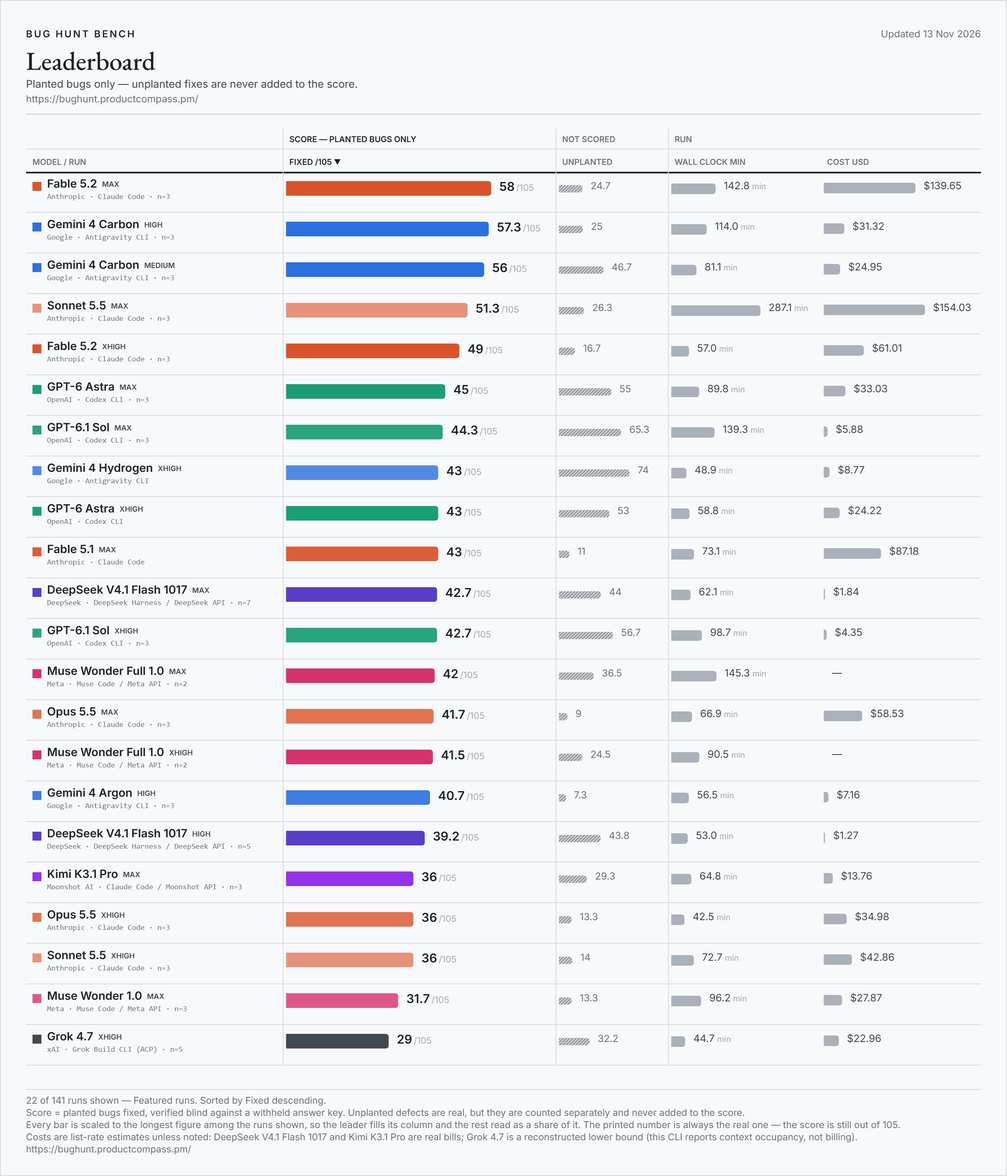
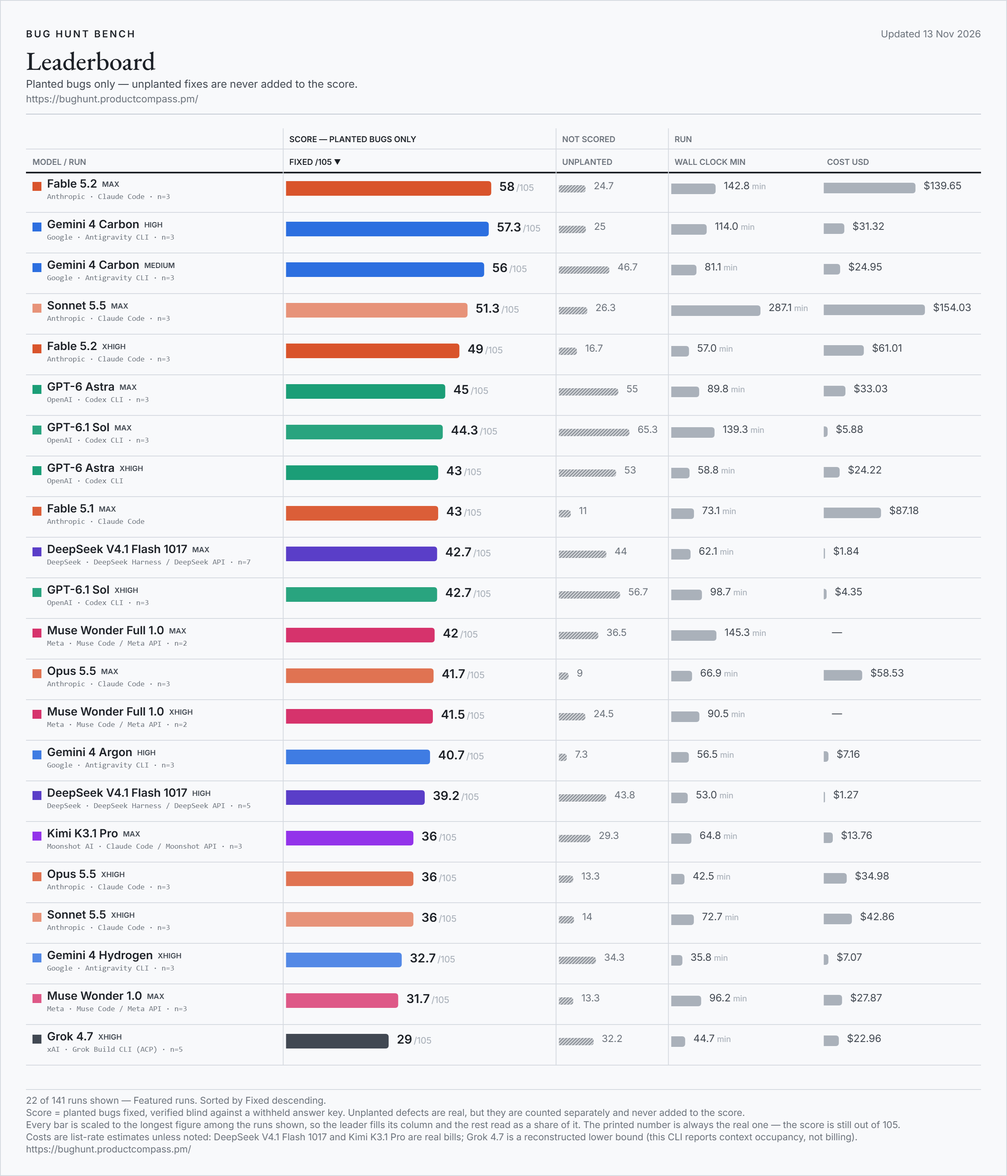
bug hunt bench: Gemini 4 Hydrogen (xhigh effort, Antigravity CLI) - mean of 3 (32.7/105)

diff --git a/index.html b/index.html
@@ -22,14 +22,14 @@
 <meta property="og:title" content="Bug Hunt Bench — frontier coding models against real planted bugs">
 <meta property="og:description" content="A blind-graded benchmark of frontier coding models on real bugs planted in two production codebases. The score counts planted bugs only; extra fixes are tracked separately and never added.">
 <meta property="og:url" content="https://bughunt.productcompass.pm/">
-<meta property="og:image" content="https://bughunt.productcompass.pm/og-image.png?v=2026-11-13-4b826a81">
+<meta property="og:image" content="https://bughunt.productcompass.pm/og-image.png?v=2026-11-13-add9c0be">
 <meta property="og:image:width" content="1200">
 <meta property="og:image:height" content="630">
 <meta property="og:image:alt" content="Bug Hunt Bench leaderboard">
 <meta name="twitter:card" content="summary_large_image">
 <meta name="twitter:title" content="Bug Hunt Bench — frontier coding models against real planted bugs">
 <meta name="twitter:description" content="A blind-graded benchmark of frontier coding models on real bugs planted in two production codebases. The score counts planted bugs only.">
-<meta name="twitter:image" content="https://bughunt.productcompass.pm/og-image.png?v=2026-11-13-4b826a81">
+<meta name="twitter:image" content="https://bughunt.productcompass.pm/og-image.png?v=2026-11-13-add9c0be">
 <meta name="twitter:creator" content="@PawelHuryn">
 
 <link rel="icon" href="/assets/favicon.svg" type="image/svg+xml">

diff --git a/method.html b/method.html
@@ -20,14 +20,14 @@
 <meta property="og:title" content="Method, caveats and definitions — Bug Hunt Bench">
 <meta property="og:description" content="How Bug Hunt Bench is run and graded, what the board cannot tell you, and what every column on it means.">
 <meta property="og:url" content="https://bughunt.productcompass.pm/method">
-<meta property="og:image" content="https://bughunt.productcompass.pm/og-image.png?v=2026-11-13-4b826a81">
+<meta property="og:image" content="https://bughunt.productcompass.pm/og-image.png?v=2026-11-13-add9c0be">
 <meta property="og:image:width" content="1200">
 <meta property="og:image:height" content="630">
 <meta property="og:image:alt" content="Bug Hunt Bench leaderboard">
 <meta name="twitter:card" content="summary_large_image">
 <meta name="twitter:title" content="Method, caveats and definitions — Bug Hunt Bench">
 <meta name="twitter:description" content="How Bug Hunt Bench is run and graded, what the board cannot tell you, and what every column on it means.">
-<meta name="twitter:image" content="https://bughunt.productcompass.pm/og-image.png?v=2026-11-13-4b826a81">
+<meta name="twitter:image" content="https://bughunt.productcompass.pm/og-image.png?v=2026-11-13-add9c0be">
 <meta name="twitter:creator" content="@PawelHuryn">
 
 <link rel="icon" href="/assets/favicon.svg" type="image/svg+xml">

diff --git a/results/run-notes.md b/results/run-notes.md
@@ -2,7 +2,7 @@
 
 Every row on the board, with the note and caveat it carries. Generated from `data/benchmark.json` by `bench_golive.py` - do not edit by hand.
 
-Updated Nov 13, 2026 · 215 rows from 327 scored runs. Superseded rows are listed last.
+Updated Nov 13, 2026 · 216 rows from 329 scored runs. Superseded rows are listed last.
 
 ## Fable 5.2 (max effort) - mean of 3
 
@@ -67,14 +67,6 @@ OpenAI's GPT-6.1 Sol at max effort through OpenAI's own Codex CLI, on a ChatGPT 
 **Caveat.** TWO RUNS IS TWO POINTS. The range between them is 7 of 105, which is wider than the gap between several adjacent rows on this board, so treat 43.5 as an estimate with a known spread rather than a settled number - and note the repo figures round independently of the combined mean, so they can sum to 0.1 away from it. The replication is UNVERIFIED: this harness reports no context accounting, so nothing confirms the two runs shared a configuration beyond their identical arm definitions. A third run was attempted and did not finish.
 
 THE FIRST REPLICATION OF THIS MODEL'S TOP EFFORT SETTING. Runs scored 40 and 47 of 105 (repo 1: 18, 20 - repo 2: 22, 27). Mean 43.5, range 7. *** WHY THIS ROW IS n=2 AND NOT n=3 *** A third run was attempted on 2026-09-16 and did not complete: it ran 156 minutes, finished 563 tool calls, and then the harness account's usage quota was exhausted mid-turn. It produced no report and recorded no tokens and no cost, so there is nothing to score and nothing to average. It is not on this board and is not counted as a low run - a leg that never finished is not a result. Re-running it was declined on cost. *** THE SINGLE-RUN ROW ABOVE SAYS 42 AND THIS MEAN USES 40 FOR THE SAME RUN. BOTH ARE REAL. *** Run 1's transcript has been judged twice. The 2026-07-31 pass scored 19 + 23 = 42 and recorded its judge as grok-4.5 with no served-model field at all, because that column did not exist yet. The 2026-09-13 re-judge scored 18 + 22 = 40 and recorded the model the server actually served, grok-4.6. The judge bridge's model flag is inert - a measurement from 2026-09-04, where grok-4.5, grok-4.6 and a deliberately nonexistent model string all came back as grok-4.6 - so the July pass recorded a REQUEST as though it were a fact and was in all likelihood served the same judge. This mean therefore uses 40: the pass whose judge identity was MEASURED, and the same pass configuration run 2 was scored under. That makes it comparable and documented, NOT more accurate, and the older row keeps its 42 as a receipt rather than being quietly rewritten. *** WHAT THE TWO PASSES BUY, WHICH IS AN ERROR BAR AND NOT SAMPLE SIZE *** They disagree on 3 bugs of 105: on repo 1 one bug moved from a full fix to a partial, on repo 2 two credited bugs became misses. So JUDGE variance on a fixed transcript is 2 points, against MODEL variance of 7 points between the two runs - run-to-run spread is roughly three and a half times the grading noise. Two gradings of one transcript are NOT two runs and were not treated as such; n counts runs of the model. *** THE TWO RUNS COST VERY DIFFERENT AMOUNTS FOR A 7-POINT GAIN *** Run 2 consumed 74 percent more tokens than run 1 (100.9M against 176.0M) and 74 percent more at list rates (69.61 against 121.09 dollars) to score 7 points higher. The runs are six weeks apart on a self-updating CLI that records no version in its transcripts, so whether that is the same model working harder or a changed serving path is NOT established here. Read the mean as a mean of two runs that differed in effort expended as well as in outcome. *** THE REGIME BEHIND THESE TWO RUNS IS UNVERIFIED, NOT VERIFIED *** The automated regime check reads context accounting out of transcripts; this harness reports none - no init record and zero input tokens on every turn - so it returns CANNOT TELL for both repos rather than confirming the runs match. Stated plainly because the alternative is implying a check that did not happen. *** WALL TIME IS NOT COMPARABLE ACROSS THE TWO RUNS *** Run 1's legs ran alone; both of run 2's legs shared the machine with other work and say so in their own rows. Contention can inflate a wall figure and cannot shrink it, so the wall mean here is an upper bound. Scores, tokens and cost are unaffected by it. *** WHAT IS SOLID *** Counts, not inferences. A fixed configuration produced 40 and 47 of 105. Run 2 needed five attempts to produce two clean legs - three earlier legs died on wall budgets or non-zero exits and one was orphaned - so the failure rate of this configuration on this hardware is itself part of the picture and is visible in the metrics receipts.
-
-## Gemini 4 Hydrogen (xhigh effort, Antigravity CLI)
-
-**43 / 105** · repo 1 12/45 · repo 2 31/60 · 74 unplanted · 48.9 min · $8.77 · `xhigh` · Antigravity CLI · single run · 2026-11-13
-
-**Caveat.** One run; two more are queued and their mean will replace it. Judged by Codex gpt-6.1-sol, not the Grok judge of the Carbon rows. Ran on a Google AI Pro subscription: cost is a list estimate from the CLI's own token counts and likely reads low. Both legs shared the laptop.
-
-Google's Gemini 4 Hydrogen at thinking level xhigh - its top tier - through the Antigravity CLI, signed in with a Google AI Pro subscription instead of an API key. ONE RUN: 43 of 105 - 12 of 45 on repo 1 and 31 of 60 on repo 2 - with 3 partial fix(es), 1 claimed-only and 74 genuine unplanted extras; 48.9 minutes, $8.77 at list prices. Two more identical runs are queued behind the subscription's five-hour quota; their mean of three will replace this row. *** HOW ANTIGRAVITY REACHED HYDROGEN *** the subscription sign-in lists gemini-4-hydrogen-low, -medium, -high and -xhigh, and the CLI reported serving gemini-4-hydrogen-xhigh on both legs. The CLI talks to Google's own backend on this path, so unlike the gateway rows nothing could be read back on the wire. *** EFFORT xhigh IS THE CEILING *** Google lists low, medium, high and xhigh for Hydrogen. On a probe through this sign-in xhigh thought 7,691 to 12,769 tokens against high's 5,400 to 6,161 (three calls each, no overlap); on the Gemini API max is accepted but thinks like the default. *** A DIFFERENT JUDGE *** judged by gpt-6.1-sol, blinded to the arm's identity, not by grok-4.7 like the Gemini 4 Carbon rows or gpt-5.5 like the Gemini 4 Argon rows: the Grok judge's balance was exhausted. A model may never judge itself or a sibling. In the one cross-check this board has (Fable 5.2 max, repo 1, three legs) this judge scored 21, 22 and 24 where Grok scored 21, 23 and 25, so the two are close but not interchangeable. *** COST *** a list estimate, not a bill: the run used subscription quota. Priced at Google's rate for gemini-4-hydrogen ($1.50 input / $0.075 cached input / $7.50 output per million tokens, thinking billed as output) from the CLI's own token counts, which on the Gemini 4 Argon rows read 10 to 38% below Google's per-call usage - this figure likely reads low. *** GENUINE EXTRAS *** 74, 73 of them on repo 2: the model edited widely. Never folded into the score, and how many changes a judge counts as genuine extras varies by judge. *** CONTEXT REGIME NOT VERIFIABLE *** the Antigravity CLI reports no context accounting. For comparison the board publishes Gemini 4 Carbon (high effort, Antigravity CLI) - mean of 3 57.3 and Gemini 4 Argon (high effort, Antigravity CLI) - mean of 3 40.7 of 105. *** RECEIPTS *** both legs exited 0 with a report written. Every leg shared the laptop with another arm, which the wall marker discloses - scores, tokens and cost are untouched by that, only the clock.
 
 ## GPT-6 Astra (xhigh effort)
 
@@ -329,6 +321,14 @@ DeepSeek-V4.1-Flash-1017 at effort low in PI (pi-coding-agent 1.3.0, Earendil's 
 **Caveat.** Mean of 5 runs (36, 32, 27, 31 and 38 of 105) in OpenCode, the open-source coding agent, through DeepSeek's OpenAI-compatible endpoint. Billed at DeepSeek's off-peak rate. Judged by Grok.
 
 DeepSeek-V4.1-Flash-1017 at effort low in OPENCODE (opencode-ai 1.19.3, the open-source coding agent), on the same model id (deepseek-flash) and DeepSeek account as the Claude Code, DeepSeek Harness and Pi rows - the harness is the variable. OpenCode uses DeepSeek's OpenAI-compatible endpoint, like Pi. MEAN OF 5 RUNS: 36, 32, 27, 31 and 38 of 105 (repo 1: 22, 12, 12, 13 and 20 of 45 - repo 2: 14, 20, 15, 18 and 18 of 60), mean 32.8. Genuine unplanted extras 25, 12, 9, 9 and 33; claimed-only fixes 1, 1, 1, 1 and 4. Minutes 49.0, 31.9, 26.2, 31.3 and 67.6; cost $0.90, $0.38, $0.41, $0.53 and $1.10. *** AGAINST THE OTHER HARNESSES *** the same model at low stands at 34.4 in Claude Code, 34.8 in DeepSeek Harness and 33.8 in Pi (means of 5, their own rows). OpenCode is the lowest of the four, but its runs (27-38) overlap all three ranges (Claude Code 32-40, DeepSeek Harness 34-36, Pi 25-38), so at low the gaps are a lean, not an established difference. *** SETUP *** `opencode run` with a JSON event stream; tools as shipped, including its task tool for subagents (it started 13 subagents across the ten legs, 1,030 of the 2,465 requests), except web fetch and web search, which are off; a fresh OpenCode config and data home per leg; its Claude-Code compatibility layer off and the run repo's own CLAUDE.md loaded explicitly as an instruction file; the integrity warning appended to the task in every run (work only inside this folder; anything outside is cheating and every tool call is checked). Every leg ran in one segment. OpenCode's stream reports no context accounting, but the tap's per-request prompt sizes show the main loop's context only ever grew (peak 515K tokens of the 1M window), so no leg compacted. Generated test-coverage reports were left out of the judged diff (generated output, never a fix). One leg (run 2, repo 1) was flagged by the automated integrity scan for a path string and cleared on review: the string came from the repo's own test fixtures, which the agent was parsing inside its folder. *** EFFORT low *** read on the wire: 2,465 of 2,465 requests carried reasoning_effort=low (the session-title calls included). *** COST IS A REAL BILL AT OFF-PEAK RATES *** DeepSeek's own per-call usage at its off-peak list price (the runs fell in its off-peak window: late Sunday into Monday 00:23 UTC, before the 01:00 peak); the account balance moved by the same amount. *** JUDGE *** Grok (grok-4.7). *** RECEIPTS *** Every leg shared the laptop with another arm, which the wall marker discloses - scores, tokens and cost are untouched by that, only the clock.
+
+## Gemini 4 Hydrogen (xhigh effort, Antigravity CLI) - mean of 3
+
+**32.7 / 105** · repo 1 9.3/45 · repo 2 23.3/60 · 34.3 unplanted · 35.8 min · $7.07 · `xhigh` · Antigravity CLI · mean of 3 runs · 2026-11-13
+
+**Caveat.** Three runs scoring 43, 27 and 28 of 105 - spread 16. Run 1 ran on Google AI Pro, runs 2 and 3 on Google AI Ultra. Judged by Codex gpt-6.1-sol, not the Grok judge of the Carbon rows. Cost is a list estimate from the CLI's own token counts and likely reads low.
+
+Google's Gemini 4 Hydrogen at thinking level xhigh - its top tier - through the Antigravity CLI 1.5.8, signed in with a Google subscription instead of an API key, published as the MEAN OF THREE INDEPENDENT RUNS. Runs scored 43, 27 and 28 of 105 (repo 1: 12, 8, 8 - repo 2: 31, 19, 20). Mean 32.7, range 16. *** THE PLAN CHANGED BETWEEN RUNS *** run 1 ran on Google AI Pro; the account then moved to Google AI Ultra, and runs 2 and 3 ran on it, at the same time. Same sign-in, model, CLI, timeout, prompt and judge. Every leg reported serving gemini-4-hydrogen-xhigh and spent a similar share of its output on thinking (45 to 60%), but runs 2 and 3 used about 55 to 70% of run 1's tokens, edited less widely and scored 15 to 16 lower. With one run on Pro this board cannot tell whether the plan or run-to-run variance made the difference. *** HOW ANTIGRAVITY REACHED HYDROGEN *** the subscription sign-in lists gemini-4-hydrogen-low, -medium, -high and -xhigh. The CLI talks to Google's own backend on this path, so unlike the gateway rows nothing could be read back on the wire; the served model is the CLI's own report. *** EFFORT xhigh IS THE CEILING *** Google lists low, medium, high and xhigh for Hydrogen. On a probe through this sign-in xhigh thought 7,691 to 12,769 tokens against high's 5,400 to 6,161 (three calls each, no overlap); on the Gemini API max is accepted but thinks like the default. *** A DIFFERENT JUDGE *** judged by gpt-6.1-sol, blinded to the arm's identity, not by grok-4.7 like the Gemini 4 Carbon rows or gpt-5.5 like the Gemini 4 Argon rows: the Grok judge's balance was exhausted. A model may never judge itself or a sibling. In the one cross-check this board has (Fable 5.2 max, repo 1, three legs) this judge scored 21, 22 and 24 where Grok scored 21, 23 and 25. *** WALL, COST AND TURNS *** walls 48.9, 30.9 and 27.9 minutes - run 1's two legs shared the laptop, runs 2 and 3 ran four legs at once; turns 1,012, 788 and 1,016. *** COST *** $8.77, $5.78 and $6.64 per run (mean $7.07), a list estimate, not a bill: the runs used subscription quota. Priced at Google's rate for gemini-4-hydrogen ($1.50 input / $0.075 cached input / $7.50 output per million tokens, thinking billed as output) from the CLI's own token counts, which on the Gemini 4 Argon rows read 10 to 38% below Google's per-call usage - these figures likely read low. *** GENUINE EXTRAS *** 74, 16 and 13 across the runs, never folded into the score. *** CONTEXT REGIME NOT VERIFIABLE *** the Antigravity CLI reports no context accounting. For comparison the board publishes Gemini 4 Carbon (high effort, Antigravity CLI) - mean of 3 57.3 and Gemini 4 Argon (high effort, Antigravity CLI) - mean of 3 40.7 of 105. *** RECEIPTS *** every leg exited 0 with a report written. Every leg shared the laptop with another arm, which the wall marker discloses - scores, tokens and cost are untouched by that, only the clock.
 
 ## Muse Spark 1.3 (max effort, Muse Code, Meta API) - mean of 5
 
@@ -1061,6 +1061,16 @@ Meta's Muse Wonder Full 1.0 at max effort through Muse Code, Meta's own agent CL
 **Caveat.** One run (44 of 105). Cost unknown: Meta publishes no price for this model. Effort xhigh is one tier below max, not magnitude-probed. Both repos ran at the same time.
 
 Meta's Muse Wonder Full 1.0 at xhigh effort - one tier below max - through Muse Code, Meta's own agent CLI. ONE RUN: 44 of 105 - 16 of 45 on repo 1 and 28 of 60 on repo 2 - with 3 partial fix(es), 0 claimed-only and 35 genuine unplanted extras; 80.3 minutes. *** AGAINST MAX *** the same model at max, also one run, scored 44 (22 on repo 1, 22 on repo 2) in 138.2 minutes. The totals land together and the split does not: max led on repo 1, xhigh on repo 2. With one run each, the two tiers are not separated here. Muse Wonder 1.0 at max stands at 31.7 (mean of three) and Muse Spark 1.3 at max at 32.2. *** COST UNKNOWN *** Meta publishes no rate for Full - its own model catalog lists the cost as empty - so the cost column is left blank rather than estimated. Tokens are exact: 72 million across both repos. The run used a subscription, so there is no bill either. *** EFFORT xhigh *** a tier in the effort list Muse Code's model catalog gives this model (minimal to max); not magnitude-probed, not the ceiling. The tier describes Muse Code's main loop; its reminder-observer side agent runs at its own fixed efforts. *** RECEIPTS *** Both legs exited 0, run at the same time. Muse Code 1.4.1 (1.4.1-R4503.1). Every leg shared the laptop with another arm, which the wall marker discloses - scores, tokens and cost are untouched by that, only the clock. Judge: blind Codex gpt-5.5, which is neither this model nor a sibling of it.
+
+## Gemini 4 Hydrogen (xhigh effort, Antigravity CLI)
+
+**43 / 105** · repo 1 12/45 · repo 2 31/60 · 74 unplanted · 48.9 min · $8.77 · `xhigh` · Antigravity CLI · single run · 2026-11-13
+
+**Superseded.** Superseded 2026-11-13 by the mean of three runs (32.7 of 105). This row reported 43 of 105 from run 1, the only run complete at the time; runs 2 and 3 scored 27 and 28. Nothing here is retracted - it is the receipt for what the board showed before runs 2 and 3 finished.
+
+**Caveat.** One run; two more are queued and their mean will replace it. Judged by Codex gpt-6.1-sol, not the Grok judge of the Carbon rows. Ran on a Google AI Pro subscription: cost is a list estimate from the CLI's own token counts and likely reads low. Both legs shared the laptop.
+
+Google's Gemini 4 Hydrogen at thinking level xhigh - its top tier - through the Antigravity CLI, signed in with a Google AI Pro subscription instead of an API key. ONE RUN: 43 of 105 - 12 of 45 on repo 1 and 31 of 60 on repo 2 - with 3 partial fix(es), 1 claimed-only and 74 genuine unplanted extras; 48.9 minutes, $8.77 at list prices. Two more identical runs are queued behind the subscription's five-hour quota; their mean of three will replace this row. *** HOW ANTIGRAVITY REACHED HYDROGEN *** the subscription sign-in lists gemini-4-hydrogen-low, -medium, -high and -xhigh, and the CLI reported serving gemini-4-hydrogen-xhigh on both legs. The CLI talks to Google's own backend on this path, so unlike the gateway rows nothing could be read back on the wire. *** EFFORT xhigh IS THE CEILING *** Google lists low, medium, high and xhigh for Hydrogen. On a probe through this sign-in xhigh thought 7,691 to 12,769 tokens against high's 5,400 to 6,161 (three calls each, no overlap); on the Gemini API max is accepted but thinks like the default. *** A DIFFERENT JUDGE *** judged by gpt-6.1-sol, blinded to the arm's identity, not by grok-4.7 like the Gemini 4 Carbon rows or gpt-5.5 like the Gemini 4 Argon rows: the Grok judge's balance was exhausted. A model may never judge itself or a sibling. In the one cross-check this board has (Fable 5.2 max, repo 1, three legs) this judge scored 21, 22 and 24 where Grok scored 21, 23 and 25, so the two are close but not interchangeable. *** COST *** a list estimate, not a bill: the run used subscription quota. Priced at Google's rate for gemini-4-hydrogen ($1.50 input / $0.075 cached input / $7.50 output per million tokens, thinking billed as output) from the CLI's own token counts, which on the Gemini 4 Argon rows read 10 to 38% below Google's per-call usage - this figure likely reads low. *** GENUINE EXTRAS *** 74, 73 of them on repo 2: the model edited widely. Never folded into the score, and how many changes a judge counts as genuine extras varies by judge. *** CONTEXT REGIME NOT VERIFIABLE *** the Antigravity CLI reports no context accounting. For comparison the board publishes Gemini 4 Carbon (high effort, Antigravity CLI) - mean of 3 57.3 and Gemini 4 Argon (high effort, Antigravity CLI) - mean of 3 40.7 of 105. *** RECEIPTS *** both legs exited 0 with a report written. Every leg shared the laptop with another arm, which the wall marker discloses - scores, tokens and cost are untouched by that, only the clock.
 
 ## Opus 5.5 (max effort)
 

diff --git a/README.md b/README.md
@@ -7,9 +7,9 @@
 If the numbers save you a benchmark run of your own, **star this repo** — that is what keeps the bench findable, and new models are added as they ship.
 
 <!-- leaderboard:start -->
-![Bug Hunt Bench leaderboard, the featured runs, updated Nov 13, 2026](assets/leaderboard.png?v=2026-11-13-3ebd070e)
+![Bug Hunt Bench leaderboard, the featured runs, updated Nov 13, 2026](assets/leaderboard.png?v=2026-11-13-f5614375)
 
-**Updated Nov 13, 2026 · 215 rows from 327 scored runs · 52 models · 23 of 105 bugs have never been fixed by any model.**
+**Updated Nov 13, 2026 · 216 rows from 329 scored runs · 52 models · 23 of 105 bugs have never been fixed by any model.**
 
 **Current leader:** Fable 5.2 at `max` effort — **58 / 105** (23/45 on repo 1, 35/60 on repo 2).
 
@@ -25,42 +25,42 @@ If the numbers save you a benchmark run of your own, **star this repo** — that
 | 6 | GPT-6 Astra | Codex CLI | max | 3 | **45** | 22 | 23 | 55 | 90 min | $33.03 | 2026-09-14 |
 | 7 | GPT-6.1 Sol | Codex CLI | max | 3 | **44.3** | 22.3 | 22 | 65.3 | 139 min | $5.88 | 2026-09-30 |
 | 8 | GPT-5.6 Sol | Codex CLI | max | 2 | **43.5** | 19 | 24.5 | 48.5 | 253 min | $95.35 | 2026-09-16 |
-| 9 | Gemini 4 Hydrogen | Antigravity CLI | xhigh | 1 | **43** | 12 | 31 | 74 | 49 min | $8.77 | 2026-11-13 |
-| 10 | GPT-6 Astra | Codex CLI | xhigh | 1 | **43** | 23 | 20 | 53 | 59 min | $24.22 | 2026-09-04 |
-| 11 | Fable 5.2 | Claude Code | high | 2 | **43** | 19.5 | 23.5 | 16.5 | 40 min | $46.67 | 2026-11-10 |
-| 12 | Fable 5.1 | Claude Code | max | 1 | **43** | 19 | 24 | 11 | 73 min | $87.18 | 2026-09-01 |
-| 13 | DeepSeek V4.1 Flash 1017 | DeepSeek Harness / DeepSeek API | max | 7 | **42.7** | 19 | 23.7 | 44 | 62 min | $1.84 bill | 2026-10-18 |
-| 14 | GPT-6.1 Sol | Codex CLI | xhigh | 3 | **42.7** | 22.3 | 20.3 | 56.7 | 99 min | $4.35 | 2026-09-30 |
-| 15 | DeepSeek V4.1 Flash 1017 | Pi / DeepSeek API | max | 5 | **42.2** | 17.8 | 24.4 | 41.8 | 54 min | $0.83 bill | 2026-10-18 |
-| 16 | Muse Wonder Full 1.0 | Muse Code / Meta API | max | 2 | **42** | 21.5 | 20.5 | 36.5 | 145 min | — | 2026-10-14 |
-| 17 | Opus 5.5 | Claude Code | max | 3 | **41.7** | 19 | 22.7 | 9 | 67 min | $58.53 | 2026-09-23 |
-| 18 | Fable 5.2 | Claude Code | medium | 2 | **41.5** | 18 | 23.5 | 17.5 | 20 min | $26.55 | 2026-11-10 |
-| 19 | Muse Wonder Full 1.0 | Muse Code / Meta API | xhigh | 2 | **41.5** | 16 | 25.5 | 24.5 | 90 min | — | 2026-10-14 |
-| 20 | Fable 5.2 | Claude Code | low | 2 | **41** | 19.5 | 21.5 | 14.5 | 19 min | $24.32 | 2026-11-10 |
-| 21 | GPT-6.1 Terra | Codex CLI | max | 3 | **40.7** | 18 | 22.7 | 48 | 37 min | $3.88 | 2026-10-26 |
-| 22 | Gemini 4 Argon | Antigravity CLI | high | 3 | **40.7** | 13 | 27.7 | 7.3 | 56 min | $7.16 | 2026-10-14 |
-| 23 | DeepSeek V4.1 Flash 1017 | Pi / DeepSeek API | high | 5 | **40.4** | 16 | 24.4 | 29.4 | 48 min | $0.64 bill | 2026-10-18 |
-| 24 | Gemini 4 Argon | Antigravity CLI | medium | 3 | **39.3** | 13.7 | 25.7 | 11.3 | 60 min | $7.50 | 2026-10-14 |
-| 25 | DeepSeek V4.1 Flash 1017 | DeepSeek Harness / DeepSeek API | high | 5 | **39.2** | 17 | 22.2 | 43.8 | 53 min | $1.27 bill | 2026-10-18 |
-| 26 | DeepSeek V4.1 Flash 1017 | Claude Code / DeepSeek API | max | 7 | **39.1** | 18.1 | 21 | 22.9 | 58 min | $1.01 bill | 2026-10-18 |
-| 27 | GPT-5.6 Sol | Codex CLI | xhigh | 1 | **39** | 18 | 21 | 59 | 126 min | $52.75 | 2026-08-28 |
-| 28 | DeepSeek V4.1 Flash 1017 | OpenCode / DeepSeek API | max | 5 | **37.6** | 15.8 | 21.8 | 36.2 | 56 min | $0.96 bill | 2026-10-18 |
-| 29 | DeepSeek V4.1 Flash 1017 | OpenCode / DeepSeek API | high | 5 | **36.6** | 15.4 | 21.2 | 25.6 | 42 min | $0.79 bill | 2026-10-19 |
-| 30 | GPT-6.1 Sol | Codex CLI | high | 2 | **36.5** | 17 | 19.5 | 40 | 70 min | $3.26 | 2026-09-30 |
-| 31 | DeepSeek V4.1 Flash 1017 | Claude Code / DeepSeek API | high | 5 | **36.4** | 15.2 | 21.2 | 24.4 | 54 min | $0.82 bill | 2026-10-17 |
-| 32 | Kimi K3.1 Pro | Claude Code / Moonshot API | max | 3 | **36** | 17 | 19 | 29.3 | 65 min | $13.76 bill | 2026-10-23 |
-| 33 | Opus 5.5 | Claude Code | xhigh | 3 | **36** | 17 | 19 | 13.3 | 42 min | $34.98 | 2026-09-23 |
-| 34 | Sonnet 5.5 | Claude Code | xhigh | 3 | **36** | 16 | 20 | 14 | 73 min | $42.86 | 2026-09-29 |
-| 35 | Gemini 4 Argon | Antigravity CLI | low | 3 | **35.3** | 12.7 | 22.7 | 5.7 | 60 min | $6.47 | 2026-10-14 |
-| 36 | GPT-6 Astra | Codex CLI | high | 1 | **35** | 19 | 16 | 40 | 40 min | $20.60 | 2026-09-04 |
-| 37 | DeepSeek V4.1 Flash 1017 | DeepSeek Harness / DeepSeek API | low | 5 | **34.8** | 16.4 | 18.4 | 34.4 | 34 min | $1.06 bill | 2026-10-18 |
-| 38 | DeepSeek V4.1 Flash 1017 | Claude Code / DeepSeek API | low | 5 | **34.4** | 16.4 | 18 | 16.8 | 44 min | $0.71 bill | 2026-10-17 |
-| 39 | Sonnet 5.5 | Claude Code | high | 3 | **34.3** | 15.7 | 18.7 | 10.7 | 28 min | $19.85 | 2026-09-29 |
-| 40 | GPT-6 Astra | Codex CLI | medium | 1 | **34** | 19 | 15 | 33 | 28 min | $15.78 | 2026-09-05 |
-| 41 | GPT-5.6 Sol | Codex CLI | high | 1 | **34** | 13 | 21 | 28 | 67 min | $33.92 | 2026-07-31 |
-| 42 | DeepSeek V4.1 Flash 1017 | Pi / DeepSeek API | low | 5 | **33.8** | 14 | 19.8 | 19.6 | 33 min | $0.46 bill | 2026-10-18 |
-| 43 | Fable 5.1 | Claude Code | high | 1 | **33** | 15 | 18 | 7 | 36 min | $48.58 | 2026-09-01 |
-| 44 | DeepSeek V4.1 Flash 1017 | OpenCode / DeepSeek API | low | 5 | **32.8** | 15.8 | 17 | 17.6 | 41 min | $0.66 bill | 2026-10-19 |
+| 9 | GPT-6 Astra | Codex CLI | xhigh | 1 | **43** | 23 | 20 | 53 | 59 min | $24.22 | 2026-09-04 |
+| 10 | Fable 5.2 | Claude Code | high | 2 | **43** | 19.5 | 23.5 | 16.5 | 40 min | $46.67 | 2026-11-10 |
+| 11 | Fable 5.1 | Claude Code | max | 1 | **43** | 19 | 24 | 11 | 73 min | $87.18 | 2026-09-01 |
+| 12 | DeepSeek V4.1 Flash 1017 | DeepSeek Harness / DeepSeek API | max | 7 | **42.7** | 19 | 23.7 | 44 | 62 min | $1.84 bill | 2026-10-18 |
+| 13 | GPT-6.1 Sol | Codex CLI | xhigh | 3 | **42.7** | 22.3 | 20.3 | 56.7 | 99 min | $4.35 | 2026-09-30 |
+| 14 | DeepSeek V4.1 Flash 1017 | Pi / DeepSeek API | max | 5 | **42.2** | 17.8 | 24.4 | 41.8 | 54 min | $0.83 bill | 2026-10-18 |
+| 15 | Muse Wonder Full 1.0 | Muse Code / Meta API | max | 2 | **42** | 21.5 | 20.5 | 36.5 | 145 min | — | 2026-10-14 |
+| 16 | Opus 5.5 | Claude Code | max | 3 | **41.7** | 19 | 22.7 | 9 | 67 min | $58.53 | 2026-09-23 |
+| 17 | Fable 5.2 | Claude Code | medium | 2 | **41.5** | 18 | 23.5 | 17.5 | 20 min | $26.55 | 2026-11-10 |
+| 18 | Muse Wonder Full 1.0 | Muse Code / Meta API | xhigh | 2 | **41.5** | 16 | 25.5 | 24.5 | 90 min | — | 2026-10-14 |
+| 19 | Fable 5.2 | Claude Code | low | 2 | **41** | 19.5 | 21.5 | 14.5 | 19 min | $24.32 | 2026-11-10 |
+| 20 | GPT-6.1 Terra | Codex CLI | max | 3 | **40.7** | 18 | 22.7 | 48 | 37 min | $3.88 | 2026-10-26 |
+| 21 | Gemini 4 Argon | Antigravity CLI | high | 3 | **40.7** | 13 | 27.7 | 7.3 | 56 min | $7.16 | 2026-10-14 |
+| 22 | DeepSeek V4.1 Flash 1017 | Pi / DeepSeek API | high | 5 | **40.4** | 16 | 24.4 | 29.4 | 48 min | $0.64 bill | 2026-10-18 |
+| 23 | Gemini 4 Argon | Antigravity CLI | medium | 3 | **39.3** | 13.7 | 25.7 | 11.3 | 60 min | $7.50 | 2026-10-14 |
+| 24 | DeepSeek V4.1 Flash 1017 | DeepSeek Harness / DeepSeek API | high | 5 | **39.2** | 17 | 22.2 | 43.8 | 53 min | $1.27 bill | 2026-10-18 |
+| 25 | DeepSeek V4.1 Flash 1017 | Claude Code / DeepSeek API | max | 7 | **39.1** | 18.1 | 21 | 22.9 | 58 min | $1.01 bill | 2026-10-18 |
+| 26 | GPT-5.6 Sol | Codex CLI | xhigh | 1 | **39** | 18 | 21 | 59 | 126 min | $52.75 | 2026-08-28 |
+| 27 | DeepSeek V4.1 Flash 1017 | OpenCode / DeepSeek API | max | 5 | **37.6** | 15.8 | 21.8 | 36.2 | 56 min | $0.96 bill | 2026-10-18 |
+| 28 | DeepSeek V4.1 Flash 1017 | OpenCode / DeepSeek API | high | 5 | **36.6** | 15.4 | 21.2 | 25.6 | 42 min | $0.79 bill | 2026-10-19 |
+| 29 | GPT-6.1 Sol | Codex CLI | high | 2 | **36.5** | 17 | 19.5 | 40 | 70 min | $3.26 | 2026-09-30 |
+| 30 | DeepSeek V4.1 Flash 1017 | Claude Code / DeepSeek API | high | 5 | **36.4** | 15.2 | 21.2 | 24.4 | 54 min | $0.82 bill | 2026-10-17 |
+| 31 | Kimi K3.1 Pro | Claude Code / Moonshot API | max | 3 | **36** | 17 | 19 | 29.3 | 65 min | $13.76 bill | 2026-10-23 |
+| 32 | Opus 5.5 | Claude Code | xhigh | 3 | **36** | 17 | 19 | 13.3 | 42 min | $34.98 | 2026-09-23 |
+| 33 | Sonnet 5.5 | Claude Code | xhigh | 3 | **36** | 16 | 20 | 14 | 73 min | $42.86 | 2026-09-29 |
+| 34 | Gemini 4 Argon | Antigravity CLI | low | 3 | **35.3** | 12.7 | 22.7 | 5.7 | 60 min | $6.47 | 2026-10-14 |
+| 35 | GPT-6 Astra | Codex CLI | high | 1 | **35** | 19 | 16 | 40 | 40 min | $20.60 | 2026-09-04 |
+| 36 | DeepSeek V4.1 Flash 1017 | DeepSeek Harness / DeepSeek API | low | 5 | **34.8** | 16.4 | 18.4 | 34.4 | 34 min | $1.06 bill | 2026-10-18 |
+| 37 | DeepSeek V4.1 Flash 1017 | Claude Code / DeepSeek API | low | 5 | **34.4** | 16.4 | 18 | 16.8 | 44 min | $0.71 bill | 2026-10-17 |
+| 38 | Sonnet 5.5 | Claude Code | high | 3 | **34.3** | 15.7 | 18.7 | 10.7 | 28 min | $19.85 | 2026-09-29 |
+| 39 | GPT-6 Astra | Codex CLI | medium | 1 | **34** | 19 | 15 | 33 | 28 min | $15.78 | 2026-09-05 |
+| 40 | GPT-5.6 Sol | Codex CLI | high | 1 | **34** | 13 | 21 | 28 | 67 min | $33.92 | 2026-07-31 |
+| 41 | DeepSeek V4.1 Flash 1017 | Pi / DeepSeek API | low | 5 | **33.8** | 14 | 19.8 | 19.6 | 33 min | $0.46 bill | 2026-10-18 |
+| 42 | Fable 5.1 | Claude Code | high | 1 | **33** | 15 | 18 | 7 | 36 min | $48.58 | 2026-09-01 |
+| 43 | DeepSeek V4.1 Flash 1017 | OpenCode / DeepSeek API | low | 5 | **32.8** | 15.8 | 17 | 17.6 | 41 min | $0.66 bill | 2026-10-19 |
+| 44 | Gemini 4 Hydrogen | Antigravity CLI | xhigh | 3 | **32.7** | 9.3 | 23.3 | 34.3 | 36 min | $7.07 | 2026-11-13 |
 | 45 | Muse Spark 1.3 | Muse Code / Meta API | max | 5 | **32.2** | 14.2 | 18 | 24 | 86 min | $18.11 | 2026-09-17 |
 | 46 | GPT-5.6 Terra | Codex CLI | max | 1 | **32** | 16 | 16 | 45 | 160 min | $27.98 | 2026-08-27 |
 | 47 | Opus 5.5 | Claude Code | high | 3 | **31.7** | 13 | 18.7 | 10.7 | 24 min | $22.25 | 2026-09-23 |
@@ -164,7 +164,7 @@ If the numbers save you a benchmark run of your own, **star this repo** — that
 Extras are real, unplanted defects a model fixed on the way; they are counted and never added to the score. Costs are token estimates at published list rates unless tagged **bill** (an actual invoice or credits delta) or **floor** (a reconstructed lower bound). `default` effort means the serving path had no working effort dial; *ran lower* marks a run whose CLI quietly replaced the requested tier. Wall clock is repo 1 plus repo 2 agent time, dependency install excluded.
 Every row's full note, caveat and supersession history is in [results/run-notes.md](https://github.com/phuryn/bug-hunt-bench/blob/main/results/run-notes.md); the runs behind each one are in the metrics CSVs.
 
-74 superseded re-runs stay in the CSVs and on the [live board](https://bughunt.productcompass.pm/?preset=all) but are left off this table.
+75 superseded re-runs stay in the CSVs and on the [live board](https://bughunt.productcompass.pm/?preset=all) but are left off this table.
 <!-- leaderboard:end -->
 
 ## What Bug Hunt Bench is

diff --git a/results/waves.md b/results/waves.md
@@ -4528,3 +4528,21 @@ What it shows. One Hydrogen run at xhigh scores 43 of 105, between Gemini 4 Argo
 Three things to read it with. The judge: Codex (gpt-6.1-sol), blind, because the Grok judge's balance was exhausted; not Grok like the Carbon rows or gpt-5.5 like the Argon rows. In the one cross-check this board has (Fable 5.2 max, repo 1, three legs) it scored 21, 22 and 24 where Grok scored 21, 23 and 25. The path: the subscription sign-in talks to Google's own backend, so the tier could not be read back on the wire; the CLI reported serving gemini-4-hydrogen-xhigh, and a probe through the same sign-in showed xhigh thinking about twice as much as high. The extras: 74 genuine unplanted fixes, 73 on repo 2 - the model edited widely; extras never count toward the score.
 
 Cost is a list estimate, not a bill (the run used subscription quota): Google's rate for Hydrogen ($1.50 input, $0.075 cached input, $7.50 output per million) applied to the CLI's own token counts, which on the Argon rows read 10-38% below Google's per-call usage, so it likely reads low. Featured.
+
+## Gemini 4 Hydrogen — xhigh, mean of 3 (Nov 13)
+
+Google's Gemini 4 Hydrogen at thinking level xhigh, its top tier, through the Antigravity CLI 1.5.8 signed in with a Google subscription instead of an API key. Three runs of one configuration; this mean replaces the single-run row published earlier the same day (43 of 105).
+
+| Row | Harness | Score | Repo 1 | Repo 2 | Wall | Cost |
+|---|---|---|---|---|---|---|
+| Gemini 4 Hydrogen (xhigh effort, Antigravity CLI) - mean of 3 | Antigravity CLI | **32.7** / 105 | 9.3 / 45 | 23.3 / 60 | 35.8 min | $7.07 |
+| Gemini 4 Argon (high effort, Antigravity CLI) - mean of 3 | Antigravity CLI | 40.7 / 105 | 13 / 45 | 27.7 / 60 | 56.5 min | $7.16 |
+| Gemini 4 Carbon (high effort, Antigravity CLI) - mean of 3 | Antigravity CLI | 57.3 / 105 | 22.3 / 45 | 35 / 60 | 114.0 min | $31.32 |
+
+Runs: 43, 27 and 28 of 105 (repo 1: 12, 8, 8 - repo 2: 31, 19, 20).
+
+What it shows. Hydrogen at xhigh averages 32.7 of 105, below Gemini 4 Argon at high (40.7) and well below Gemini 4 Carbon at high (57.3), at a list-estimate cost of $7.07 per run. The first run's 43 was the high one: the other two scored 27 and 28.
+
+Three things to read it with. The plan changed between runs: run 1 ran on Google AI Pro, runs 2 and 3 on Google AI Ultra (same sign-in, model, CLI and judge; every leg reported serving gemini-4-hydrogen-xhigh with a similar thinking share). Runs 2 and 3 used fewer tokens and edited less widely; with one Pro run the board cannot separate the plan from run-to-run variance. The judge: Codex (gpt-6.1-sol), blind, because the Grok judge's balance was exhausted - not Grok like the Carbon rows or gpt-5.5 like the Argon rows. The path: the subscription sign-in talks to Google's own backend, so nothing was read back on the wire.
+
+Cost is a list estimate, not a bill: Google's rate for Hydrogen applied to the CLI's own token counts, which on the Argon rows read 10-38% below Google's per-call usage. Featured.
